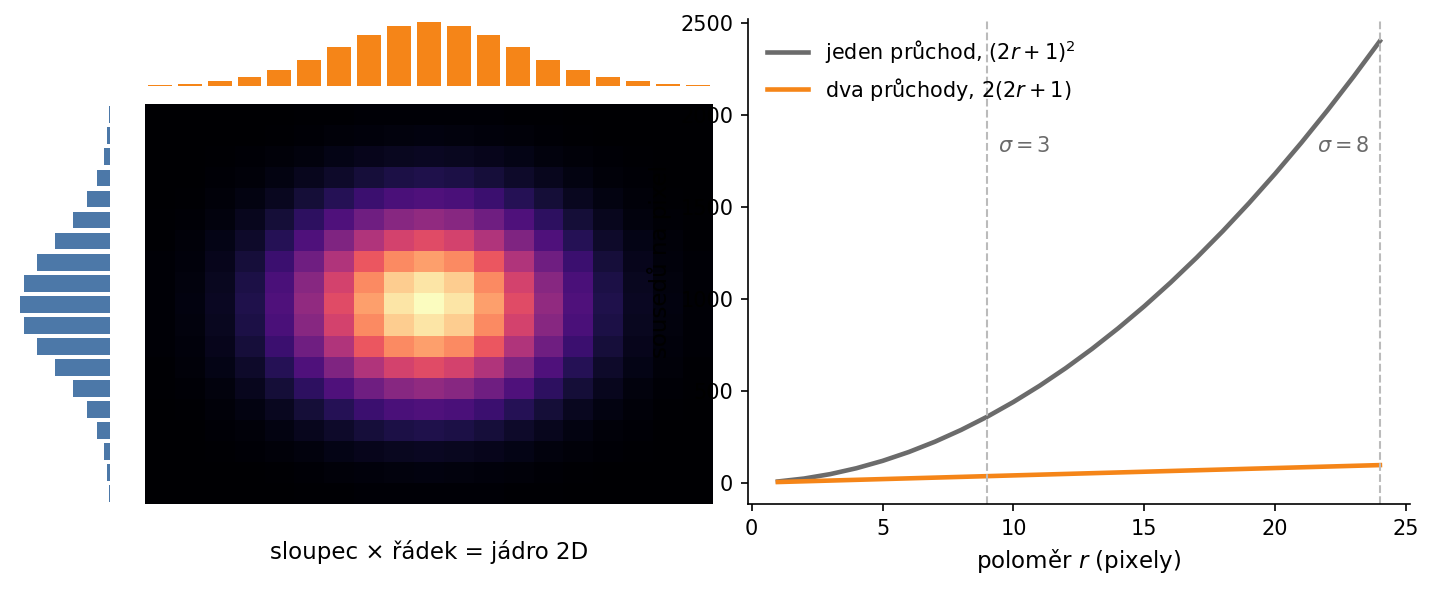
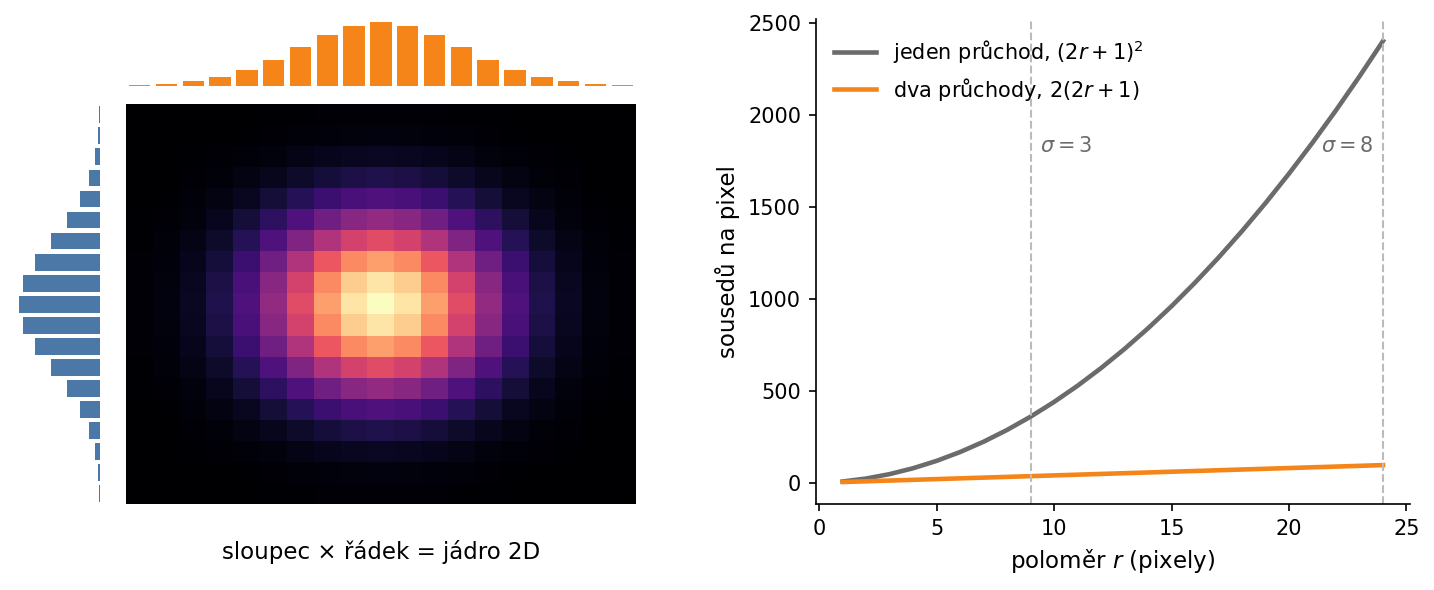
Lesson 3: fix shared-memory facts, slider resets and the Krita hint
Each thread loads one or two pixels, not two or three, and a pixel is read
at most twice. The Acerola attribution is dropped, sigma is reset after the
timing experiment, the Gauss 2D reminder comes before its check, and the
Krita hint names the dialog's real preview choices. Sobel gain defaults to
2. The convolution diagram's result agrees with its printed numbers, the
separable diagram shows its axis, and the table rows are corrected.

diff --git a/build/lesson_03_diagrams.py b/build/lesson_03_diagrams.py
@@ -85,7 +85,7 @@ def numbers(ax, values, fmt, colours=None):
 def convolution_window():
     """A 7 x 7 patch of grey values, the 3 x 3 window, its weights and the pixel it writes."""
     L = lightness(load("coffee.png"))
-    patch = L[590:597, 653:660]            # a clean edge, found by eye and by contrast
+    patch = np.round(L[590:597, 653:660], 2)   # a clean edge found by eye, rounded as the labels print it
     w = KERNELS["zaostření"]
     out = np.zeros((7, 7))
     pad = np.pad(patch, 1, mode="edge")
@@ -100,7 +100,7 @@ def convolution_window():
     ax.set_title("okolí pixelu $f$", fontsize=12)
     ax = axes[1]
     ax.imshow(w, cmap="RdBu_r", vmin=-5, vmax=5)
-    numbers(ax, w, lambda v: f"{v:g}", [["black"] * 3] * 3)
+    numbers(ax, w, lambda v: f"{v:g}", [["white" if abs(v) > 3 else "black" for v in row] for row in w])
     ax.add_patch(Rectangle((-0.5, -0.5), 3, 3, fill=False, ec=ORANGE, lw=3))
     ax.set_title("váhy $w$", fontsize=12)
     ax = axes[2]
@@ -136,7 +136,7 @@ def separable():
     sigma = 3.0
     k = gaussian_1d(sigma)
     fig = plt.figure(figsize=(12, 4.2))
-    grid = fig.add_gridspec(2, 3, width_ratios=[1, 6, 7], height_ratios=[1, 6], wspace=0.08, hspace=0.08)
+    grid = fig.add_gridspec(2, 4, width_ratios=[1, 6, 1.5, 7], height_ratios=[1, 6], wspace=0.08, hspace=0.08)
     top = fig.add_subplot(grid[0, 1])
     top.bar(np.arange(len(k)), k, color=ORANGE, width=0.8)
     top.set_xlim(-0.5, len(k) - 0.5)
@@ -150,7 +150,7 @@ def separable():
     square.imshow(np.outer(k, k), cmap="magma", aspect="auto")
     bare(square)
     square.text(len(k) / 2 - 0.5, len(k) + 1.2, "sloupec × řádek = jádro 2D", ha="center", va="top", fontsize=11)
-    plot = fig.add_subplot(grid[:, 2])
+    plot = fig.add_subplot(grid[:, 3])
     r = np.arange(1, 25)
     plot.plot(r, (2 * r + 1) ** 2, color=GREY, lw=2.2, label="jeden průchod, $(2r + 1)^2$")
     plot.plot(r, 2 * (2 * r + 1), color=ORANGE, lw=2.2, label="dva průchody, $2(2r + 1)$")
